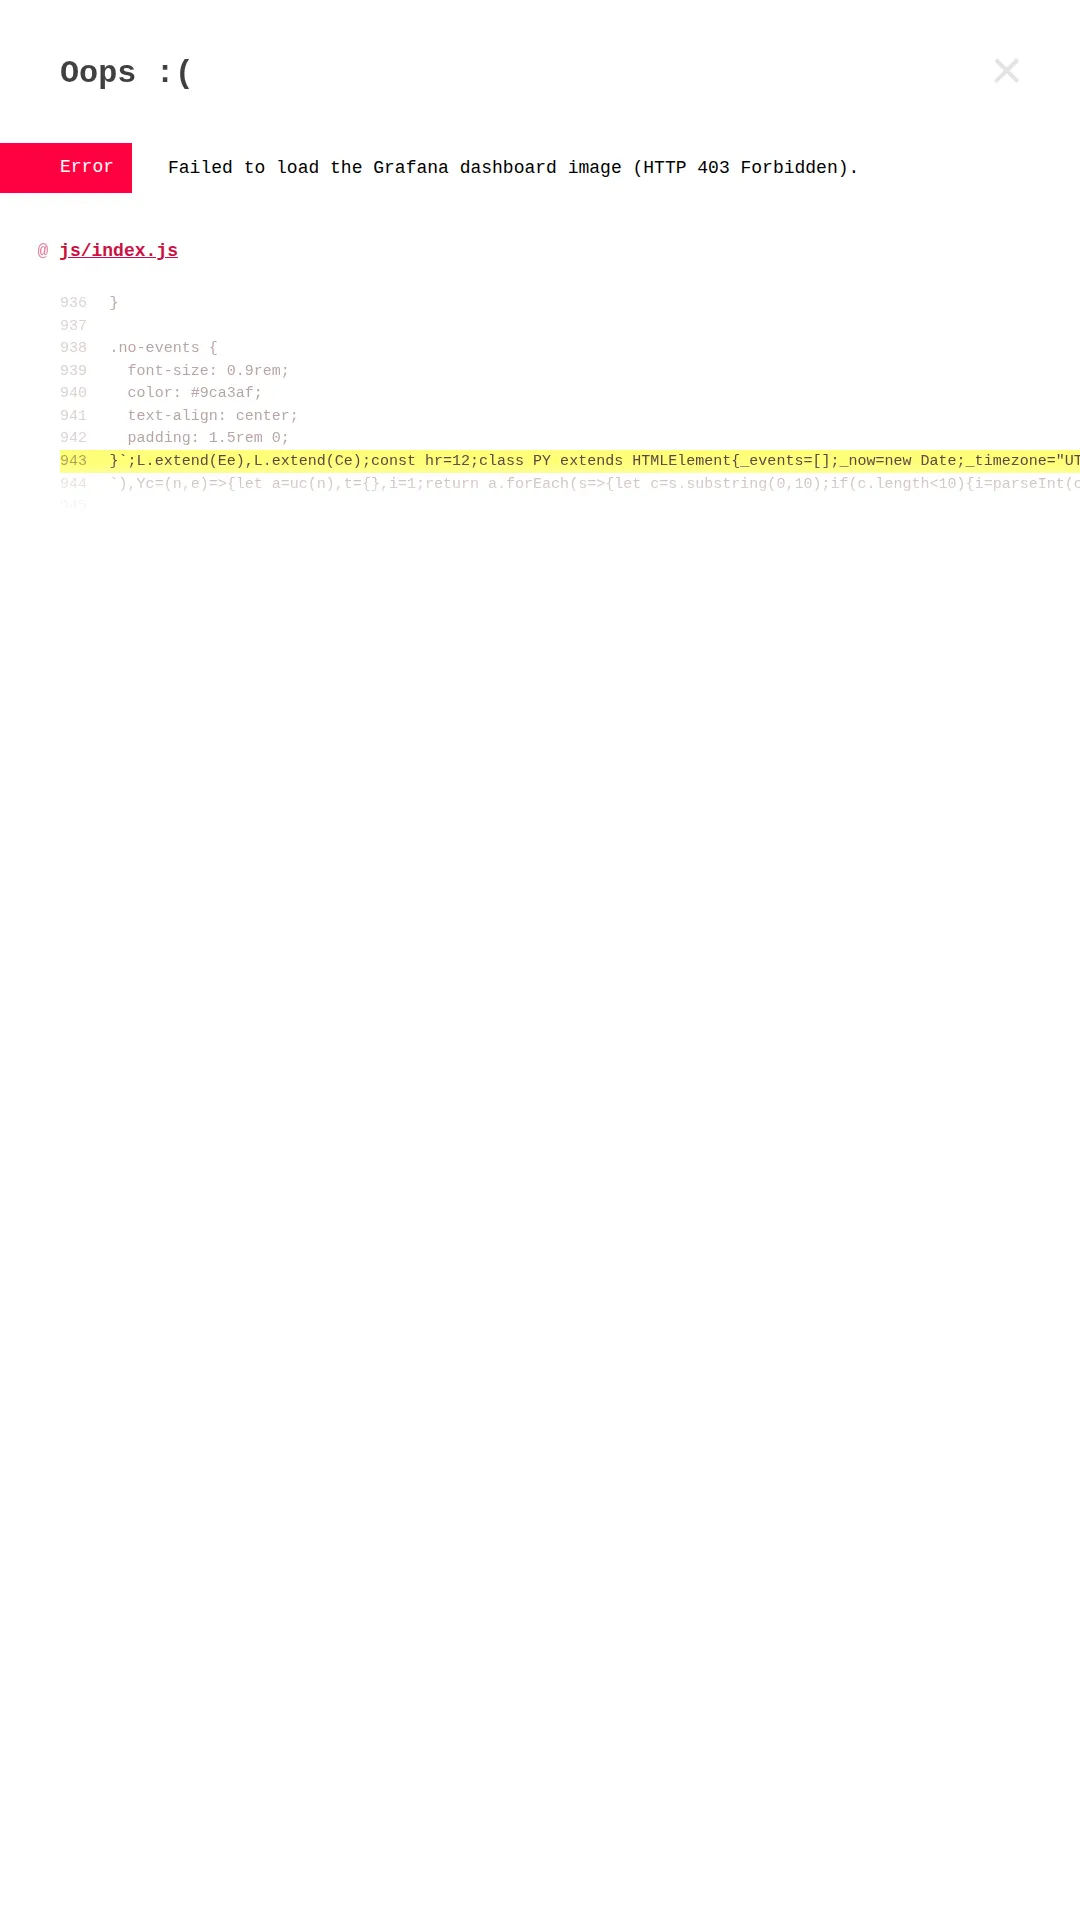
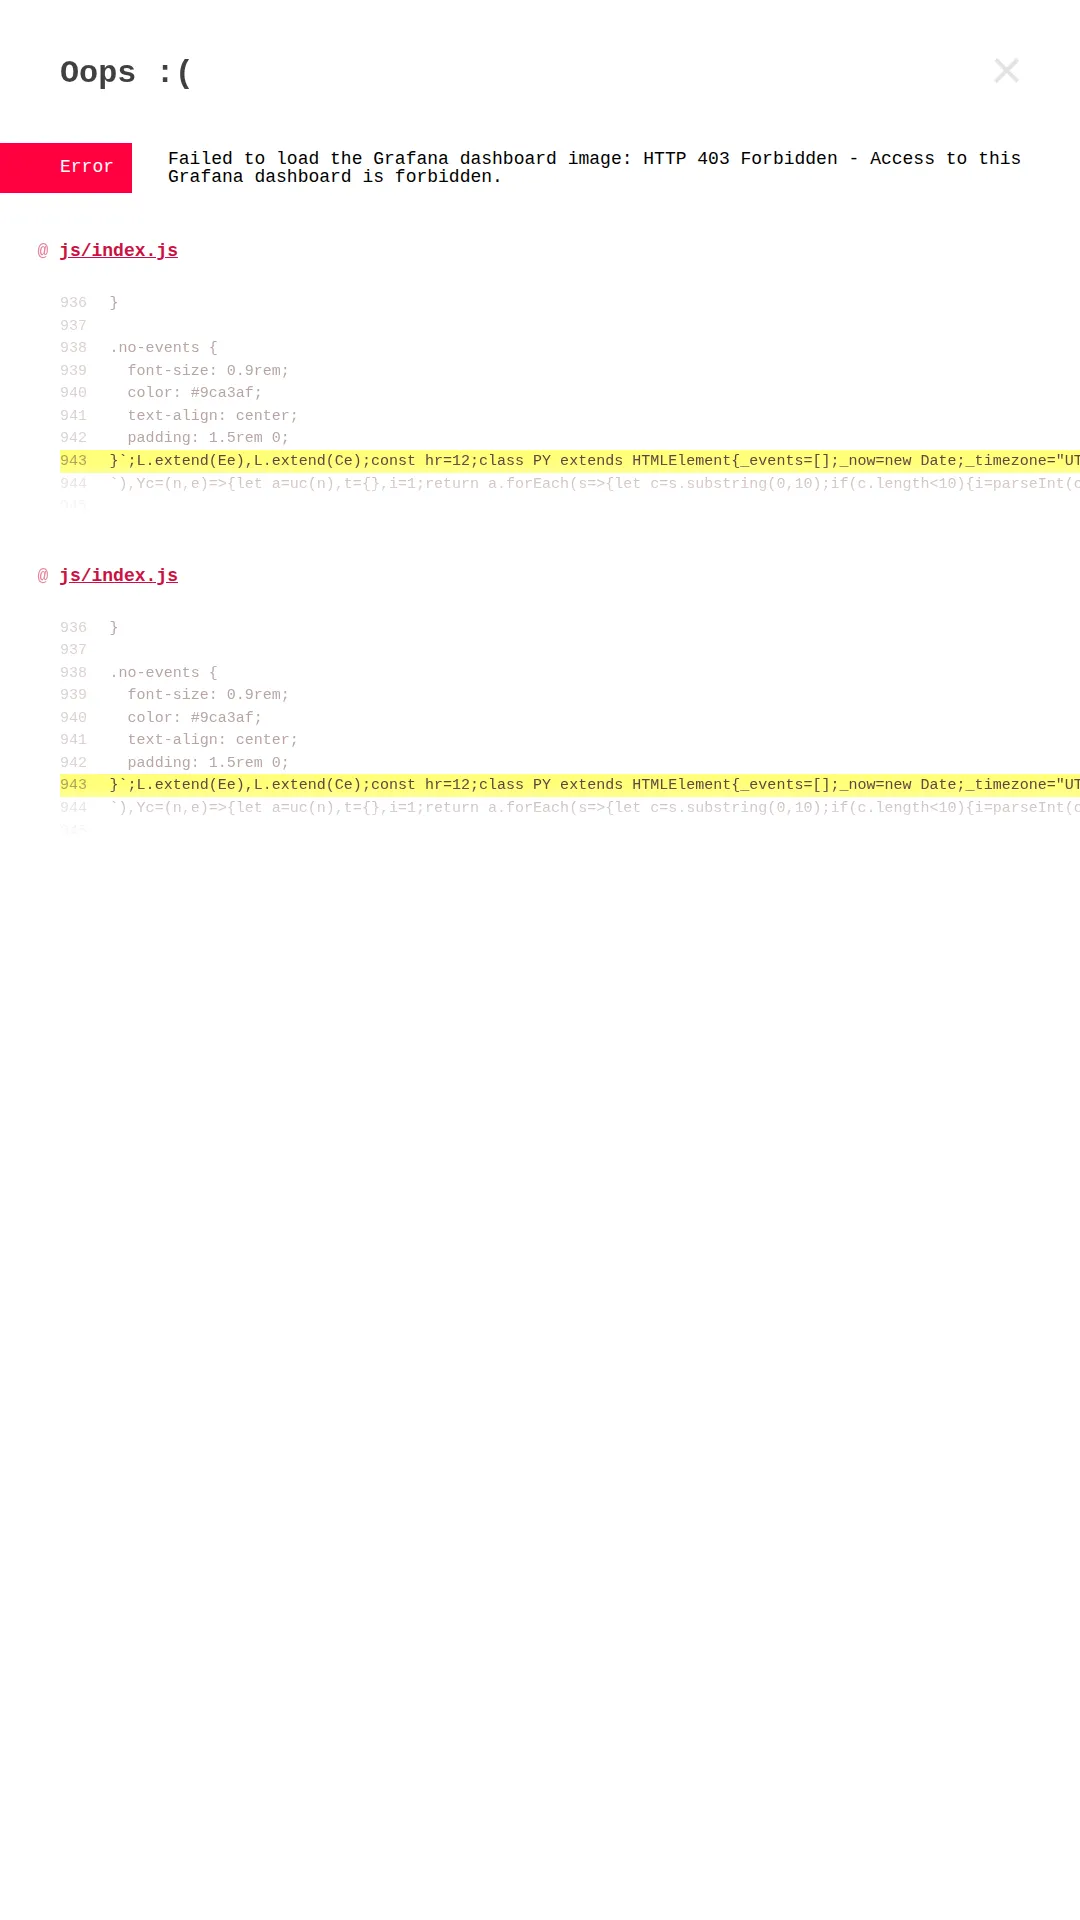
fix(grafana): propagate fetch errors directly to panic-overlay
- Remove FetchResult type and try-catch from fetchAndRenderDashboard
- Throw with HTTP status and response body for richer error detail
- Simplify main.ts to await the fetch directly; errors bubble to panic-overlay
- Add mockFailedFetch helper in tests and assert on thrown errors
- Add test for response body inclusion in the error message
- Use plain text body in display-errors e2e mock for readable overlay
- Regenerate display-errors screenshots

diff --git a/edge-apps/grafana/src/main.test.ts b/edge-apps/grafana/src/main.test.ts
@@ -83,7 +83,6 @@ describe('getRenderUrl', () => {
   })
 })
 
-// eslint-disable-next-line max-lines-per-function
 describe('fetchAndRenderDashboard', () => {
   const RENDER_URL = 'https://example.com/render'
   const TOKEN = 'token123'
@@ -119,12 +118,20 @@ describe('fetchAndRenderDashboard', () => {
     globalThis.URL.revokeObjectURL = originalRevokeObjectURL
   })
 
-  test('should return success when fetch succeeds', async () => {
+  function mockFailedFetch(status: number, statusText: string, body = '') {
+    globalThis.fetch = mock(async () => ({
+      ok: false,
+      status,
+      statusText,
+      text: async () => body,
+    })) as unknown as typeof fetch
+  }
+
+  test('should render the image when fetch succeeds', async () => {
     mockSuccessfulFetch()
 
-    const result = await fetchAndRenderDashboard(RENDER_URL, TOKEN, imgElement)
+    await fetchAndRenderDashboard(RENDER_URL, TOKEN, imgElement)
 
-    expect(result.success).toBe(true)
     expect(imgElement.setAttribute).toHaveBeenCalledWith('src', 'blob:fake-url')
   })
 
@@ -138,39 +145,30 @@ describe('fetchAndRenderDashboard', () => {
     expect(URL.revokeObjectURL).toHaveBeenCalledWith('blob:old-url')
   })
 
-  test('should return failure with HTTP status when response is not ok', async () => {
-    globalThis.fetch = mock(async () => ({
-      ok: false,
-      status: 401,
-      statusText: 'Unauthorized',
-    })) as unknown as typeof fetch
+  test('should throw with HTTP status when response is not ok', async () => {
+    mockFailedFetch(401, 'Unauthorized')
 
-    const result = await fetchAndRenderDashboard(
-      RENDER_URL,
-      'bad-token',
-      imgElement,
-    )
-
-    expect(result.success).toBe(false)
-    if (!result.success) {
-      expect(result.status).toBe(401)
-      expect(result.statusText).toBe('Unauthorized')
-      expect(result.message).toContain('401')
-    }
+    expect(
+      fetchAndRenderDashboard(RENDER_URL, 'bad-token', imgElement),
+    ).rejects.toThrow('HTTP 401 Unauthorized')
   })
 
-  test('should return failure with error message on network error', async () => {
+  test('should include response body in the error when available', async () => {
+    mockFailedFetch(403, 'Forbidden', 'Access denied for this user')
+
+    expect(
+      fetchAndRenderDashboard(RENDER_URL, 'bad-token', imgElement),
+    ).rejects.toThrow('HTTP 403 Forbidden - Access denied for this user')
+  })
+
+  test('should throw on network error', async () => {
     globalThis.fetch = mock(() =>
       Promise.reject(new Error('Network request failed')),
     ) as unknown as typeof fetch
 
-    const result = await fetchAndRenderDashboard(RENDER_URL, TOKEN, imgElement)
-
-    expect(result.success).toBe(false)
-    if (!result.success) {
-      expect(result.message).toBe('Network request failed')
-      expect(result.status).toBeUndefined()
-    }
+    expect(
+      fetchAndRenderDashboard(RENDER_URL, TOKEN, imgElement),
+    ).rejects.toThrow('Network request failed')
   })
 })
 

diff --git a/edge-apps/grafana/src/render.ts b/edge-apps/grafana/src/render.ts
@@ -1,7 +1,3 @@
-export type FetchResult =
-  | { success: true }
-  | { success: false; status?: number; statusText?: string; message: string }
-
 export function getRenderUrl(domain: string, dashboardId: string): string {
   const renderUrl = `${screenly.cors_proxy_url}/${domain}/render/d/${dashboardId}`
   const width = window.innerWidth || 1920
@@ -19,41 +15,29 @@ export async function fetchAndRenderDashboard(
   imageUrl: string,
   serviceAccessToken: string,
   imgElement: HTMLImageElement,
-): Promise<FetchResult> {
-  try {
-    const response = await fetch(imageUrl, {
-      method: 'GET',
-      headers: {
-        Authorization: `Bearer ${serviceAccessToken}`,
-        'Content-Type': 'image/png',
-      },
-    })
+): Promise<void> {
+  const response = await fetch(imageUrl, {
+    method: 'GET',
+    headers: {
+      Authorization: `Bearer ${serviceAccessToken}`,
+      'Content-Type': 'image/png',
+    },
+  })
 
-    if (!response.ok) {
-      const message = `HTTP ${response.status} ${response.statusText}`
-      console.error(
-        `Failed to fetch dashboard image from ${imageUrl}: ${message}`,
-      )
-      return {
-        success: false,
-        status: response.status,
-        statusText: response.statusText,
-        message,
-      }
-    }
-
-    const blob = await response.blob()
-    const objectUrl = URL.createObjectURL(blob)
-
-    if (imgElement.src.startsWith('blob:')) {
-      URL.revokeObjectURL(imgElement.src)
-    }
-
-    imgElement.setAttribute('src', objectUrl)
-    return { success: true }
-  } catch (error) {
-    const message = error instanceof Error ? error.message : String(error)
-    console.error('Error fetching dashboard image:', error)
-    return { success: false, message }
+  if (!response.ok) {
+    const body = (await response.text()).trim()
+    const detail = body ? ` - ${body}` : ''
+    throw new Error(
+      `Failed to load the Grafana dashboard image: HTTP ${response.status} ${response.statusText}${detail}`,
+    )
   }
+
+  const blob = await response.blob()
+  const objectUrl = URL.createObjectURL(blob)
+
+  if (imgElement.src.startsWith('blob:')) {
+    URL.revokeObjectURL(imgElement.src)
+  }
+
+  imgElement.setAttribute('src', objectUrl)
 }

diff --git a/edge-apps/grafana/src/main.ts b/edge-apps/grafana/src/main.ts
@@ -38,17 +38,7 @@ window.onload = async function () {
   const imgElement = document.querySelector('#content img') as HTMLImageElement
 
   // Fetch dashboard immediately
-  const result = await fetchAndRenderDashboard(
-    imageUrl,
-    serviceAccessToken,
-    imgElement,
-  )
-
-  if (!result.success) {
-    throw new Error(
-      `Failed to load the Grafana dashboard image (${result.message}).`,
-    )
-  }
+  await fetchAndRenderDashboard(imageUrl, serviceAccessToken, imgElement)
 
   // Set up interval to refresh the dashboard
   setInterval(async () => {

diff --git a/edge-apps/grafana/e2e/screenshots.spec.ts b/edge-apps/grafana/e2e/screenshots.spec.ts
@@ -110,8 +110,8 @@ for (const { width, height } of DISPLAY_ERRORS_RESOLUTIONS) {
       async (route) =>
         route.fulfill({
           status: 403,
-          contentType: 'application/json',
-          body: JSON.stringify({ message: 'Forbidden' }),
+          contentType: 'text/plain',
+          body: 'Access to this Grafana dashboard is forbidden.',
         }),
     )
   })
